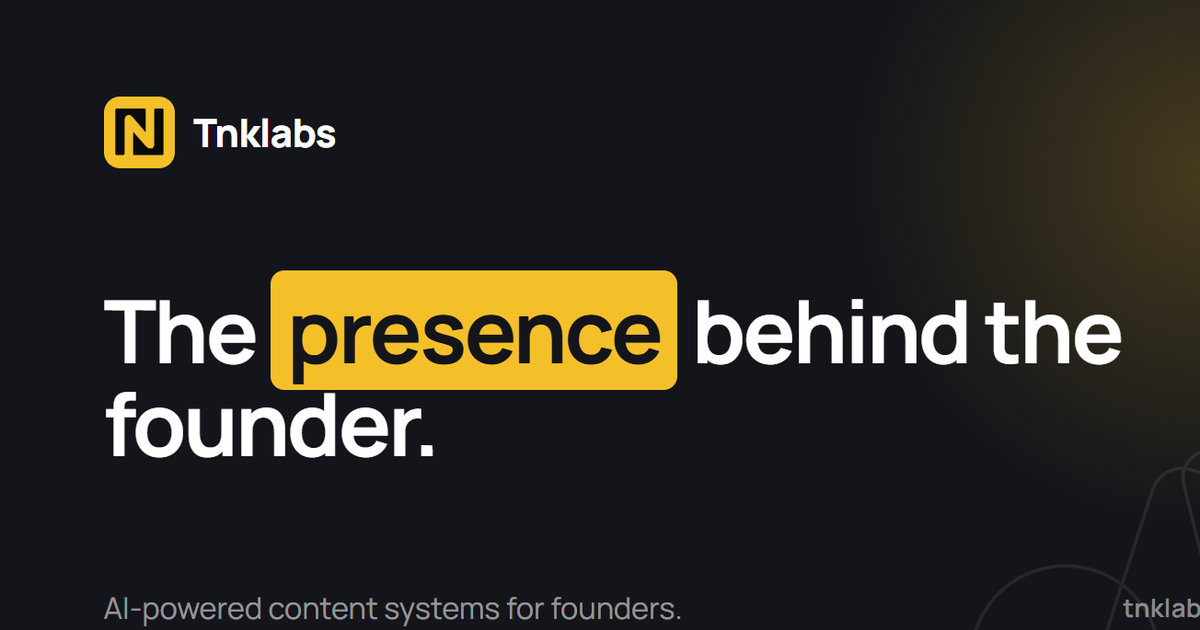
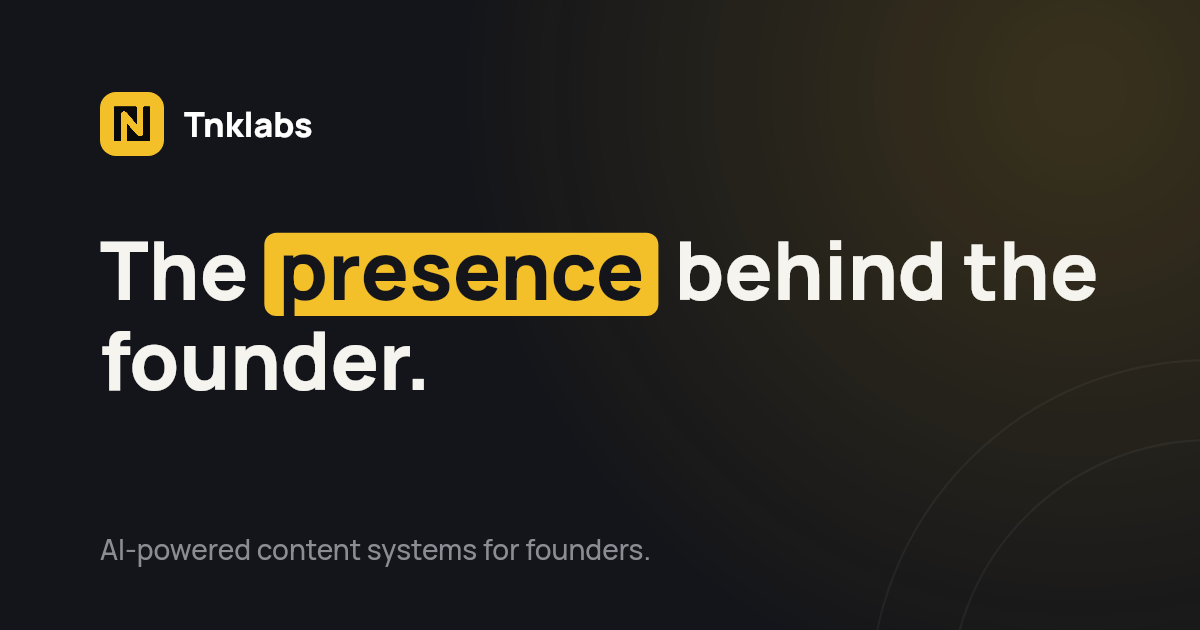
Refactor font handling: switch to self-hosted Manrope font, remove framer-motion dependencies, and implement custom animations for improved performance and user experience.

diff --git a/src/components/Reveal.tsx b/src/components/Reveal.tsx
@@ -1,15 +1,65 @@
-import { motion, type Variants } from "framer-motion";
-import type { ReactNode } from "react";
+import { useEffect, useRef, useState, type ReactNode } from "react";
 
 type Direction = "up" | "down" | "left" | "right" | "none";
 
-const offset: Record<Direction, { x?: number; y?: number }> = {
-  up: { y: 40 },
-  down: { y: -40 },
-  left: { x: 40 },
-  right: { x: -40 },
-  none: {},
+const hiddenTransform: Record<Direction, string> = {
+  up: "translateY(40px)",
+  down: "translateY(-40px)",
+  left: "translateX(40px)",
+  right: "translateX(-40px)",
+  none: "none",
 };
+
+const EASE = "cubic-bezier(0.16, 1, 0.3, 1)";
+
+function prefersReducedMotion() {
+  return (
+    typeof window !== "undefined" &&
+    typeof window.matchMedia === "function" &&
+    window.matchMedia("(prefers-reduced-motion: reduce)").matches
+  );
+}
+
+/**
+ * Scroll-in reveal. IntersectionObserver + CSS transitions, no animation library.
+ * The trigger fires when the element's top passes ~85% of the viewport height,
+ * which stays reliable for elements taller than the viewport (a threshold on
+ * `amount` would never resolve for those).
+ */
+function useInView(once: boolean) {
+  const ref = useRef<HTMLDivElement>(null);
+  const [inView, setInView] = useState(false);
+
+  useEffect(() => {
+    const el = ref.current;
+    if (!el) return;
+    if (prefersReducedMotion() || typeof IntersectionObserver === "undefined") {
+      setInView(true);
+      return;
+    }
+    const io = new IntersectionObserver(
+      (entries) => {
+        for (const entry of entries) {
+          // Reveal when the element enters the viewport, but also when it is
+          // already at or above the fold (deep-link jump, reload while scrolled,
+          // a fast fling that skips it) so it can never stay stuck invisible.
+          const alreadyPassed = entry.boundingClientRect.top < window.innerHeight;
+          if (entry.isIntersecting || alreadyPassed) {
+            setInView(true);
+            if (once) io.unobserve(entry.target);
+          } else if (!once) {
+            setInView(false);
+          }
+        }
+      },
+      { rootMargin: "0px 0px -15% 0px", threshold: 0.01 }
+    );
+    io.observe(el);
+    return () => io.disconnect();
+  }, [once]);
+
+  return { ref, inView };
+}
 
 export function Reveal({
   children,
@@ -18,7 +68,6 @@ export function Reveal({
   duration = 0.9,
   className = "",
   once = true,
-  amount = 0.25,
 }: {
   children: ReactNode;
   direction?: Direction;
@@ -26,28 +75,24 @@ export function Reveal({
   duration?: number;
   className?: string;
   once?: boolean;
+  /** kept for call-site compatibility; trigger point is handled via rootMargin */
   amount?: number;
 }) {
-  const variants: Variants = {
-    hidden: { opacity: 0, ...offset[direction] },
-    visible: {
-      opacity: 1,
-      x: 0,
-      y: 0,
-      transition: { duration, delay, ease: [0.16, 1, 0.3, 1] },
-    },
-  };
+  const { ref, inView } = useInView(once);
 
   return (
-    <motion.div
+    <div
+      ref={ref}
       className={className}
-      initial="hidden"
-      whileInView="visible"
-      viewport={{ once, amount }}
-      variants={variants}
+      style={{
+        opacity: inView ? 1 : 0,
+        transform: inView ? "none" : hiddenTransform[direction],
+        transition: `opacity ${duration}s ${EASE} ${delay}s, transform ${duration}s ${EASE} ${delay}s`,
+        willChange: "opacity, transform",
+      }}
     >
       {children}
-    </motion.div>
+    </div>
   );
 }
 
@@ -62,15 +107,21 @@ export function RevealText({
   delay?: number;
   once?: boolean;
 }) {
+  const { ref, inView } = useInView(once);
+
   return (
-    <motion.div
+    <div
+      ref={ref}
       className={className}
-      initial={{ opacity: 0, y: 24, filter: "blur(6px)" }}
-      whileInView={{ opacity: 1, y: 0, filter: "blur(0px)" }}
-      viewport={{ once, amount: 0.4 }}
-      transition={{ duration: 1, delay, ease: [0.16, 1, 0.3, 1] }}
+      style={{
+        opacity: inView ? 1 : 0,
+        transform: inView ? "none" : "translateY(24px)",
+        filter: inView ? "blur(0px)" : "blur(6px)",
+        transition: `opacity 1s ${EASE} ${delay}s, transform 1s ${EASE} ${delay}s, filter 1s ${EASE} ${delay}s`,
+        willChange: "opacity, transform, filter",
+      }}
     >
       {children}
-    </motion.div>
+    </div>
   );
 }

diff --git a/src/sections/Hero.tsx b/src/sections/Hero.tsx
@@ -1,5 +1,3 @@
-import { motion } from "framer-motion";
-
 const cards = [
   { label: "Authority", sub: "The recognised voice in your space" },
   { label: "Visibility", sub: "A presence where your buyers look" },
@@ -13,13 +11,12 @@ export function Hero() {
       className="relative flex h-[88svh] min-h-[560px] w-full flex-col overflow-hidden bg-tnk-charcoal sm:h-[86svh] lg:h-[100svh]"
     >
       {/* Background image — full-bleed, no overlay. Phones get a purpose-made portrait
-          crop so the hero can be tall without the landscape shot looking zoomed in. */}
+          crop so the hero can be tall without the landscape shot looking zoomed in.
+          WebP only (universal support); the mobile crop wins below 640px. */}
       <picture>
         <source media="(max-width: 639px)" type="image/webp" srcSet="/photos/hero-mobile.webp" />
-        <source media="(max-width: 639px)" srcSet="/photos/hero-mobile.png" />
-        <source type="image/webp" srcSet="/photos/hero.webp" />
         <img
-          src="/photos/hero.png"
+          src="/photos/hero.webp"
           alt="Two founders in conversation across a meeting table"
           fetchPriority="high"
           decoding="async"
@@ -32,11 +29,8 @@ export function Hero() {
       <div className="pointer-events-none absolute inset-0 bg-gradient-to-b from-black/45 via-black/15 to-transparent" />
 
       {/* Content — top-weighted on phones, vertically centred from sm up */}
-      <motion.div
-        initial={{ opacity: 0, y: 16 }}
-        animate={{ opacity: 1, y: 0 }}
-        transition={{ duration: 0.9, ease: [0.16, 1, 0.3, 1] }}
-        className="relative z-10 flex flex-1 flex-col justify-start px-6 pb-12 pt-28 sm:justify-center sm:pb-16 sm:pt-24 lg:px-16"
+      <div
+        className="tnk-rise relative z-10 flex flex-1 flex-col justify-start px-6 pb-12 pt-28 sm:justify-center sm:pb-16 sm:pt-24 lg:px-16"
       >
         <p className="tnk-eyebrow mb-4 font-display text-[10px] font-semibold text-white/80 sm:mb-6 sm:text-[11px]">
           The presence behind the founder
@@ -71,7 +65,7 @@ export function Hero() {
             </span>
           </a>
         </div>
-      </motion.div>
+      </div>
 
       {/* Feature cards — inspo-style row resting on the base of the hero */}
       <div className="absolute inset-x-0 bottom-0 z-20 px-6 pb-5 lg:px-16 lg:pb-8">

diff --git a/src/components/LazyVideo.tsx b/src/components/LazyVideo.tsx
@@ -1,12 +1,13 @@
 import type { VideoHTMLAttributes } from "react";
 
 /**
- * A <video> that never autoplays and never loads its full stream on page load.
- * `preload="metadata"` shows a first frame and the native play button; the viewer
- * clicks to play. So videos never fire off one after another on their own.
+ * A <video> that shows only its poster frame until the viewer presses play.
+ * `preload="none"` fetches zero video bytes on page load (the clips are heavy and
+ * sit below the fold), so nothing competes with the hero for bandwidth and videos
+ * never chain-load one after another. The poster + native controls still render.
  */
 export function LazyVideo({
-  preload = "metadata",
+  preload = "none",
   className,
   ...props
 }: VideoHTMLAttributes<HTMLVideoElement>) {

diff --git a/index.html b/index.html
@@ -25,13 +25,7 @@
     <link rel="icon" type="image/png" href="/favicon.png" />
     <link rel="apple-touch-icon" href="/favicon.png" />
 
-    <!-- Fonts: preconnect + non-blocking stylesheet -->
-    <link rel="preconnect" href="https://fonts.googleapis.com" />
-    <link rel="preconnect" href="https://fonts.gstatic.com" crossorigin />
-    <link
-      rel="stylesheet"
-      href="https://fonts.googleapis.com/css2?family=Manrope:wght@300;400;500;600;700;800&display=swap"
-    />
+    <!-- Manrope is self-hosted and bundled into the app CSS (see src/main.tsx) -->
 
     <!-- LCP image hint -->
     <link

diff --git a/src/main.tsx b/src/main.tsx
@@ -1,5 +1,13 @@
 import { StrictMode } from "react";
 import { createRoot } from "react-dom/client";
+// Self-hosted Manrope (latin subset, only the weights the UI uses). Bundled into
+// the app CSS and served same-origin with immutable caching, so no render-blocking
+// round-trip to fonts.googleapis.com / fonts.gstatic.com.
+import "@fontsource/manrope/latin-300.css";
+import "@fontsource/manrope/latin-400.css";
+import "@fontsource/manrope/latin-500.css";
+import "@fontsource/manrope/latin-600.css";
+import "@fontsource/manrope/latin-700.css";
 import "./index.css";
 import App from "./App";
 

diff --git a/src/index.css b/src/index.css
@@ -21,6 +21,27 @@
   --font-body: "Manrope", sans-serif;
 }
 
+/* Hero content mount animation (replaces a framer-motion initial/animate) */
+@keyframes tnk-rise {
+  from {
+    opacity: 0;
+    transform: translateY(16px);
+  }
+  to {
+    opacity: 1;
+    transform: none;
+  }
+}
+.tnk-rise {
+  animation: tnk-rise 0.9s cubic-bezier(0.16, 1, 0.3, 1) both;
+}
+
+@media (prefers-reduced-motion: reduce) {
+  .tnk-rise {
+    animation: none;
+  }
+}
+
 html {
   scroll-behavior: smooth;
   background-color: var(--color-tnk-paper);
